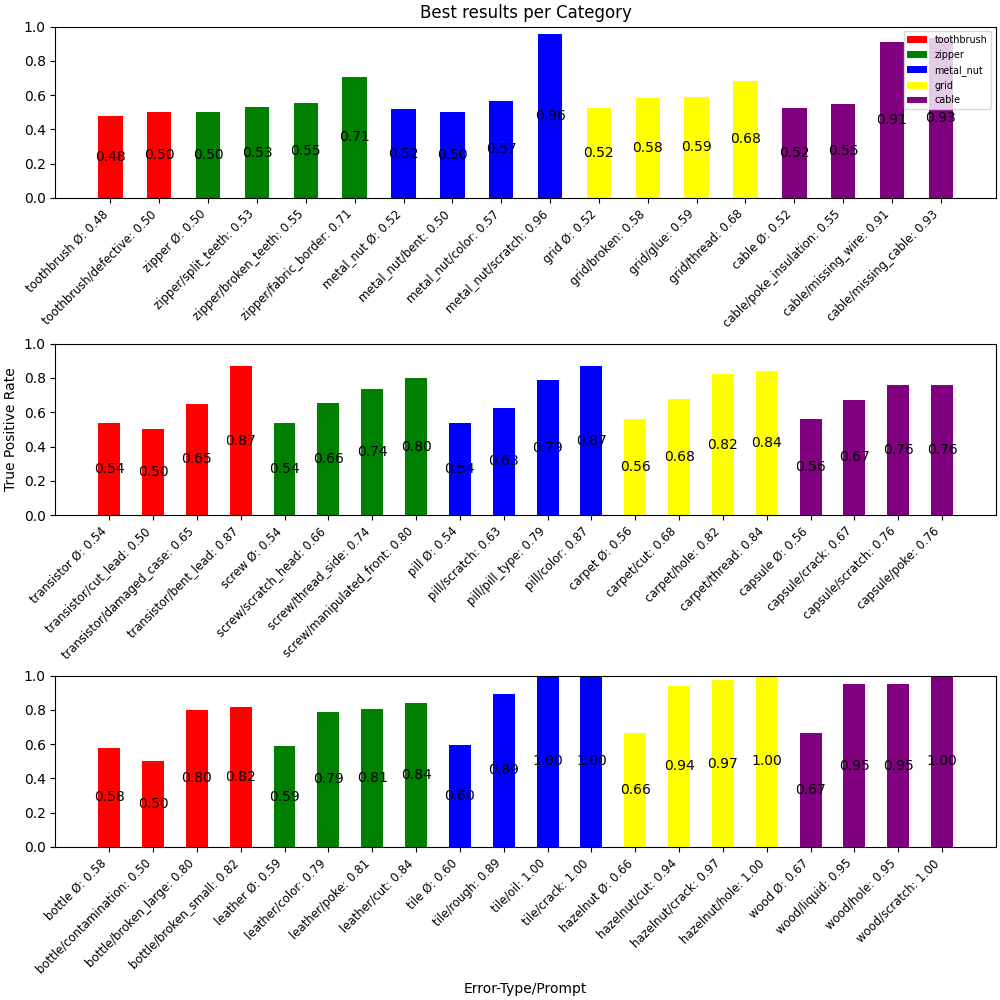
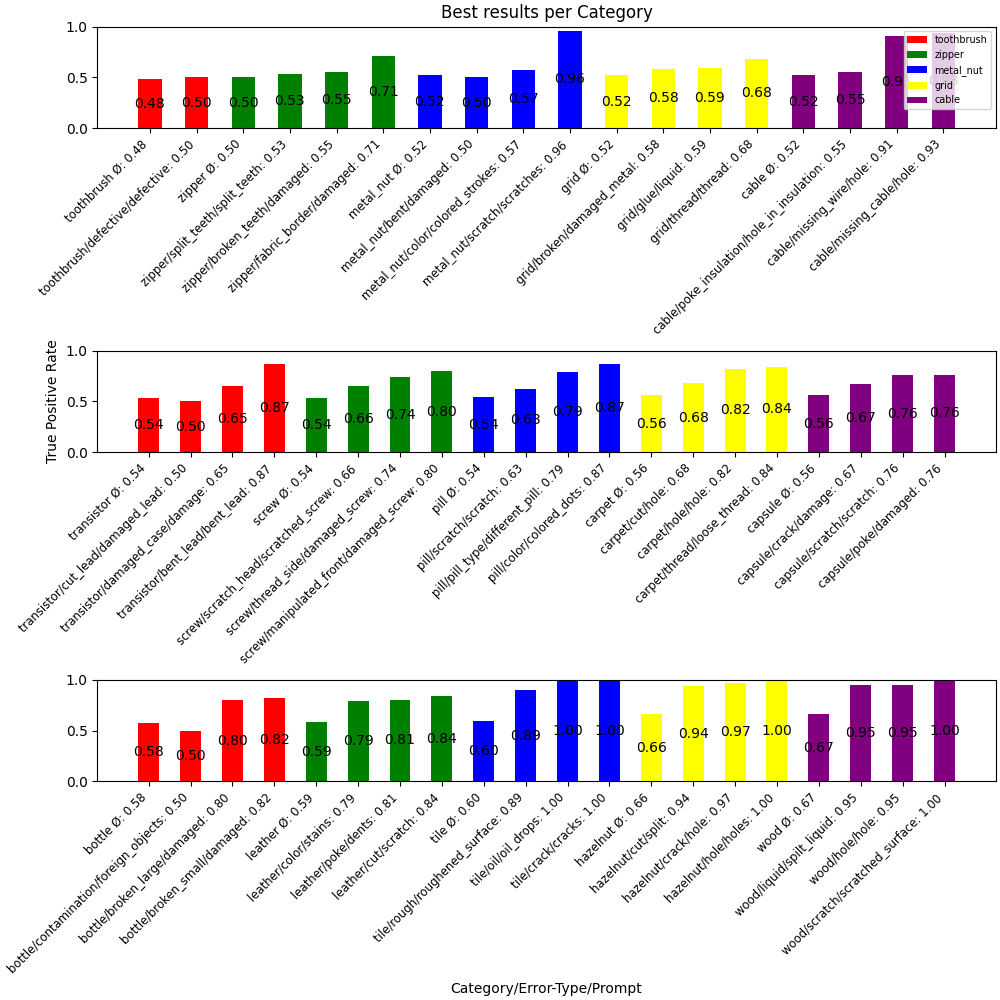
fixed prompts

diff --git a/overall_best_saved.py b/overall_best_saved.py
@@ -6,7 +6,7 @@ from anomalib.metrics import AUROC, PRO, AUPRO
 import matplotlib.pyplot as plt
 from collections import OrderedDict
 
-im_auroc_sorted = torch.load("figures/best_pix_aur.pt", weights_only=False)
+im_auroc_sorted = torch.load("figures/best.pt", weights_only=False)
 
 xlim = (0.0, 1.0)
 ylim = (0.0, 1.0)
@@ -59,4 +59,4 @@ ax2.set_ylabel("True Positive Rate")
 ax1.legend(loc="upper right", fontsize="x-small")  
 ax1.set_title(f"Best results per Category")
 
-plt.savefig(f"figures/best_pix_aur.png")
+plt.savefig(f"figures/best.png")
